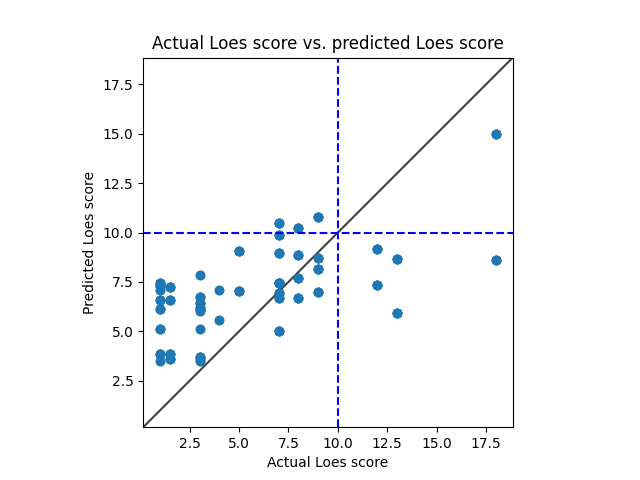
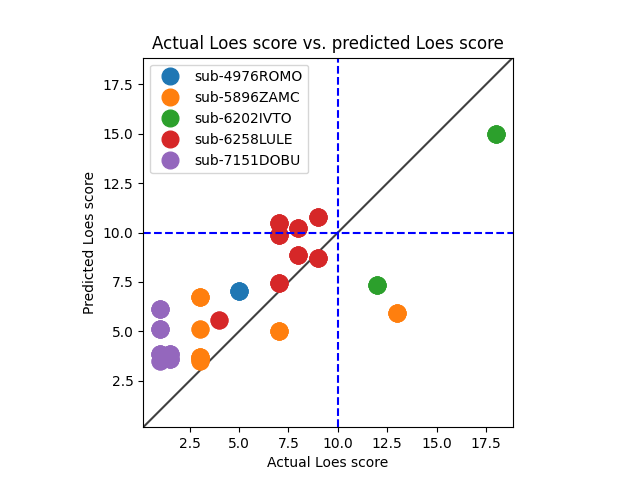
Rewrote create_scatterplot.

diff --git a/src/dcan/plot/create_scatterplot.py b/src/dcan/plot/create_scatterplot.py
@@ -9,8 +9,13 @@ import numpy as np
 def create_scatterplot(df, output_file):
     xs = df['loes-score']
     ys = df['prediction']
-    _, ax = plt.subplots()
-    plt.scatter(xs, ys)
+    groups = df.groupby('subject')
+    fig, ax = plt.subplots()
+    ax.margins(0.05)  # Optional, just adds 5% padding to the autoscaling
+    for name, group in groups:
+        ax.plot(group['loes-score'], group['prediction'], marker='o', linestyle='', ms=12, label=name)
+    ax.legend()
+
     plt.title('Actual Loes score vs. predicted Loes score')
     lims = [
         np.min([ax.get_xlim(), ax.get_ylim()]),  # min of both axes

diff --git a/src/dcan/reporting/collate_five_fold_results.py b/src/dcan/reporting/collate_five_fold_results.py
@@ -14,7 +14,7 @@ log = logging.getLogger(__name__)
 log.setLevel(logging.INFO)
 # log.setLevel(logging.DEBUG)
 
-folder = '/home/miran045/reine097/projects/loes-scoring-2/doc/models/model09/'
+folder = '/home/miran045/reine097/projects/loes-scoring-2/doc/models/model09/five_fold_validation'
 path = rf'{folder}*.csv'
 files = glob.glob(path)
 dfs = map(lambda f: pd.read_csv(f), files)
